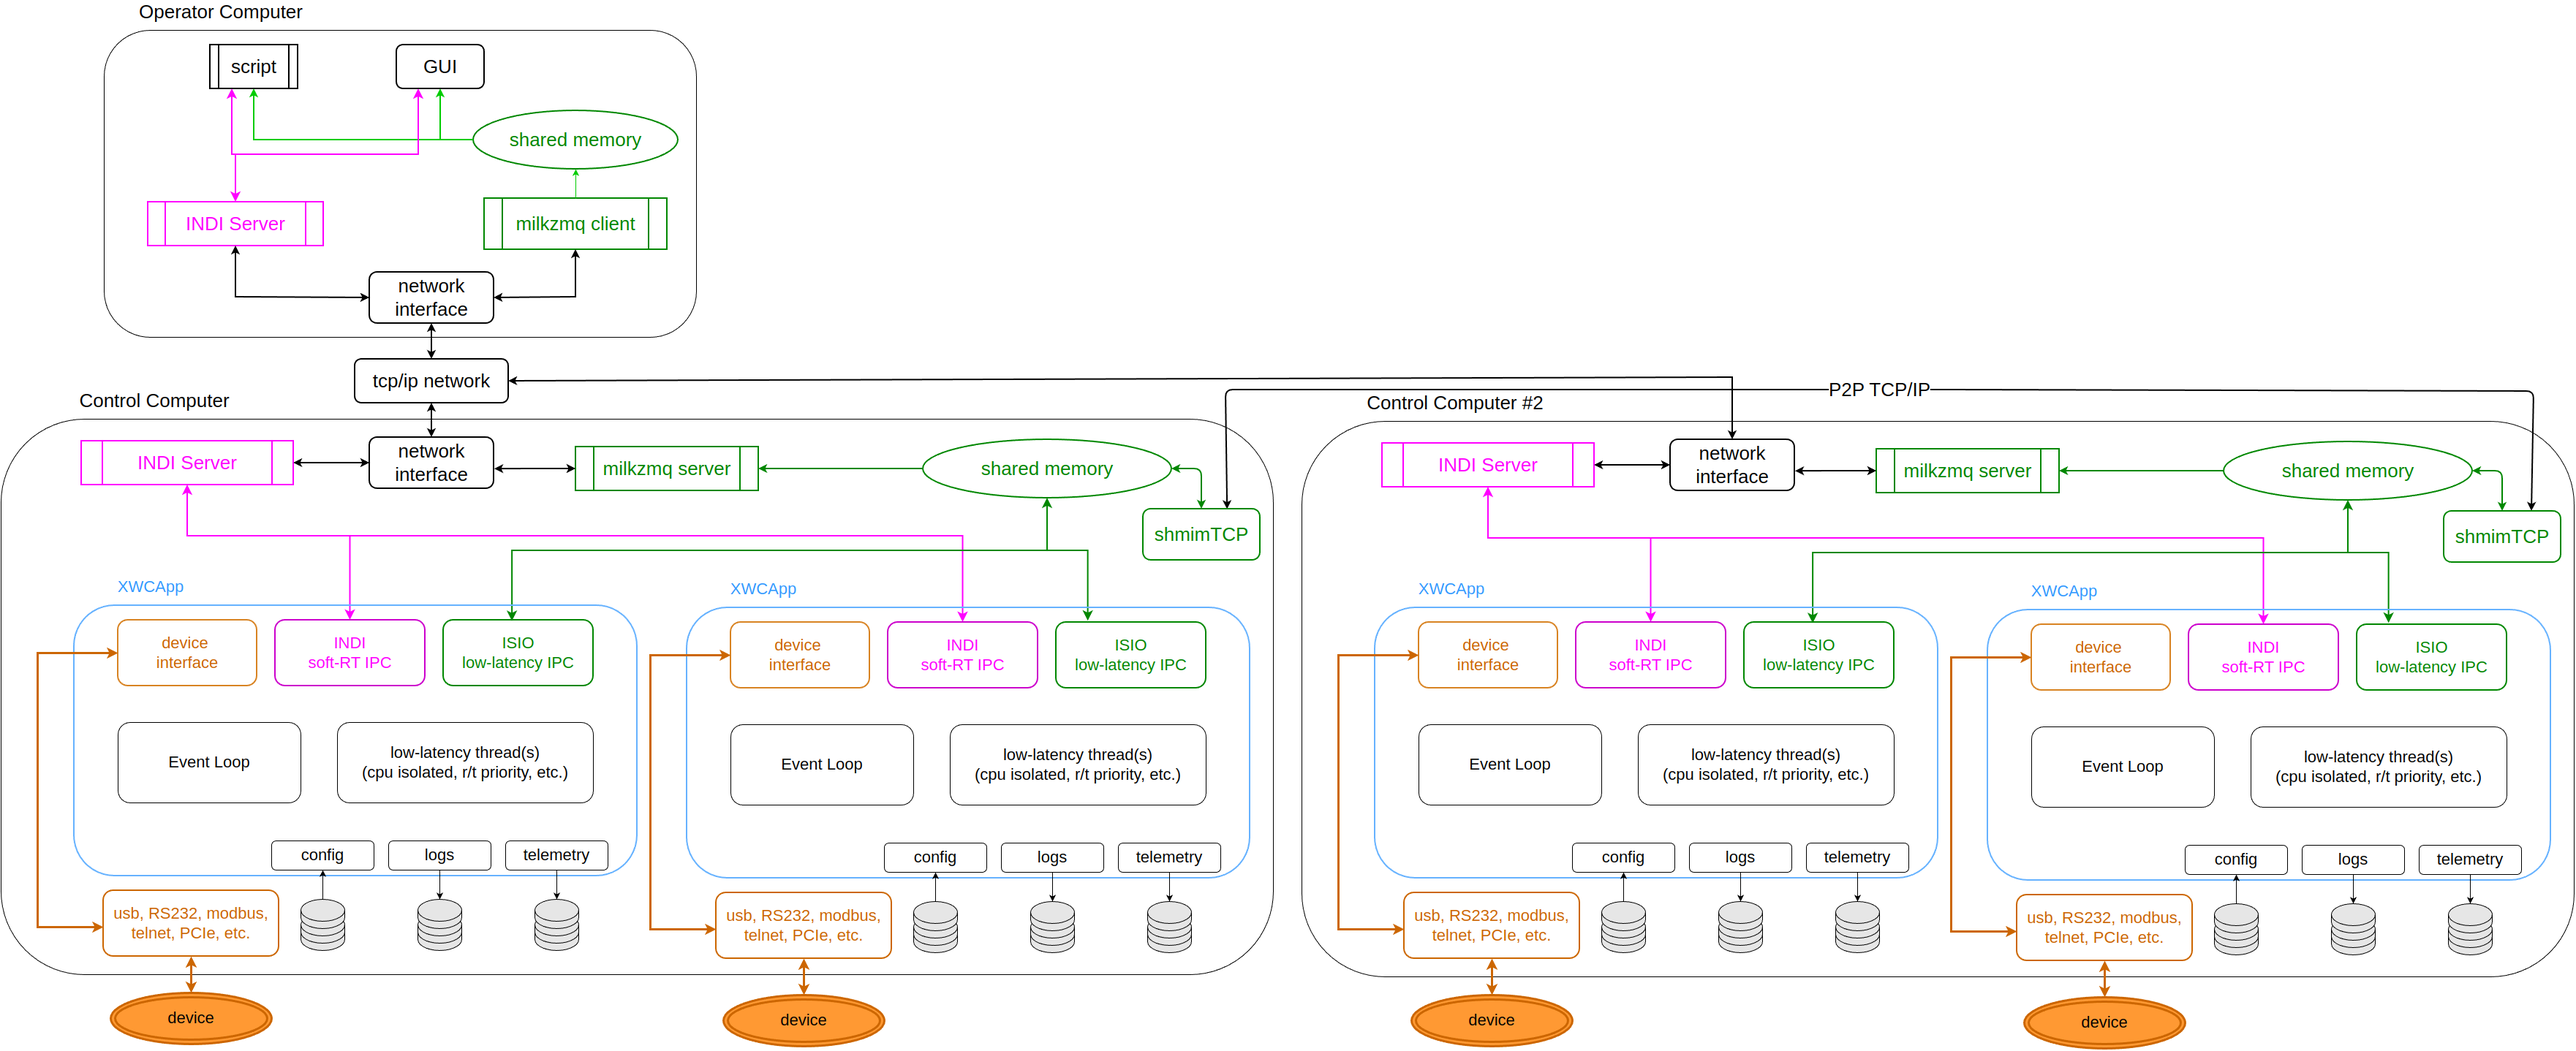
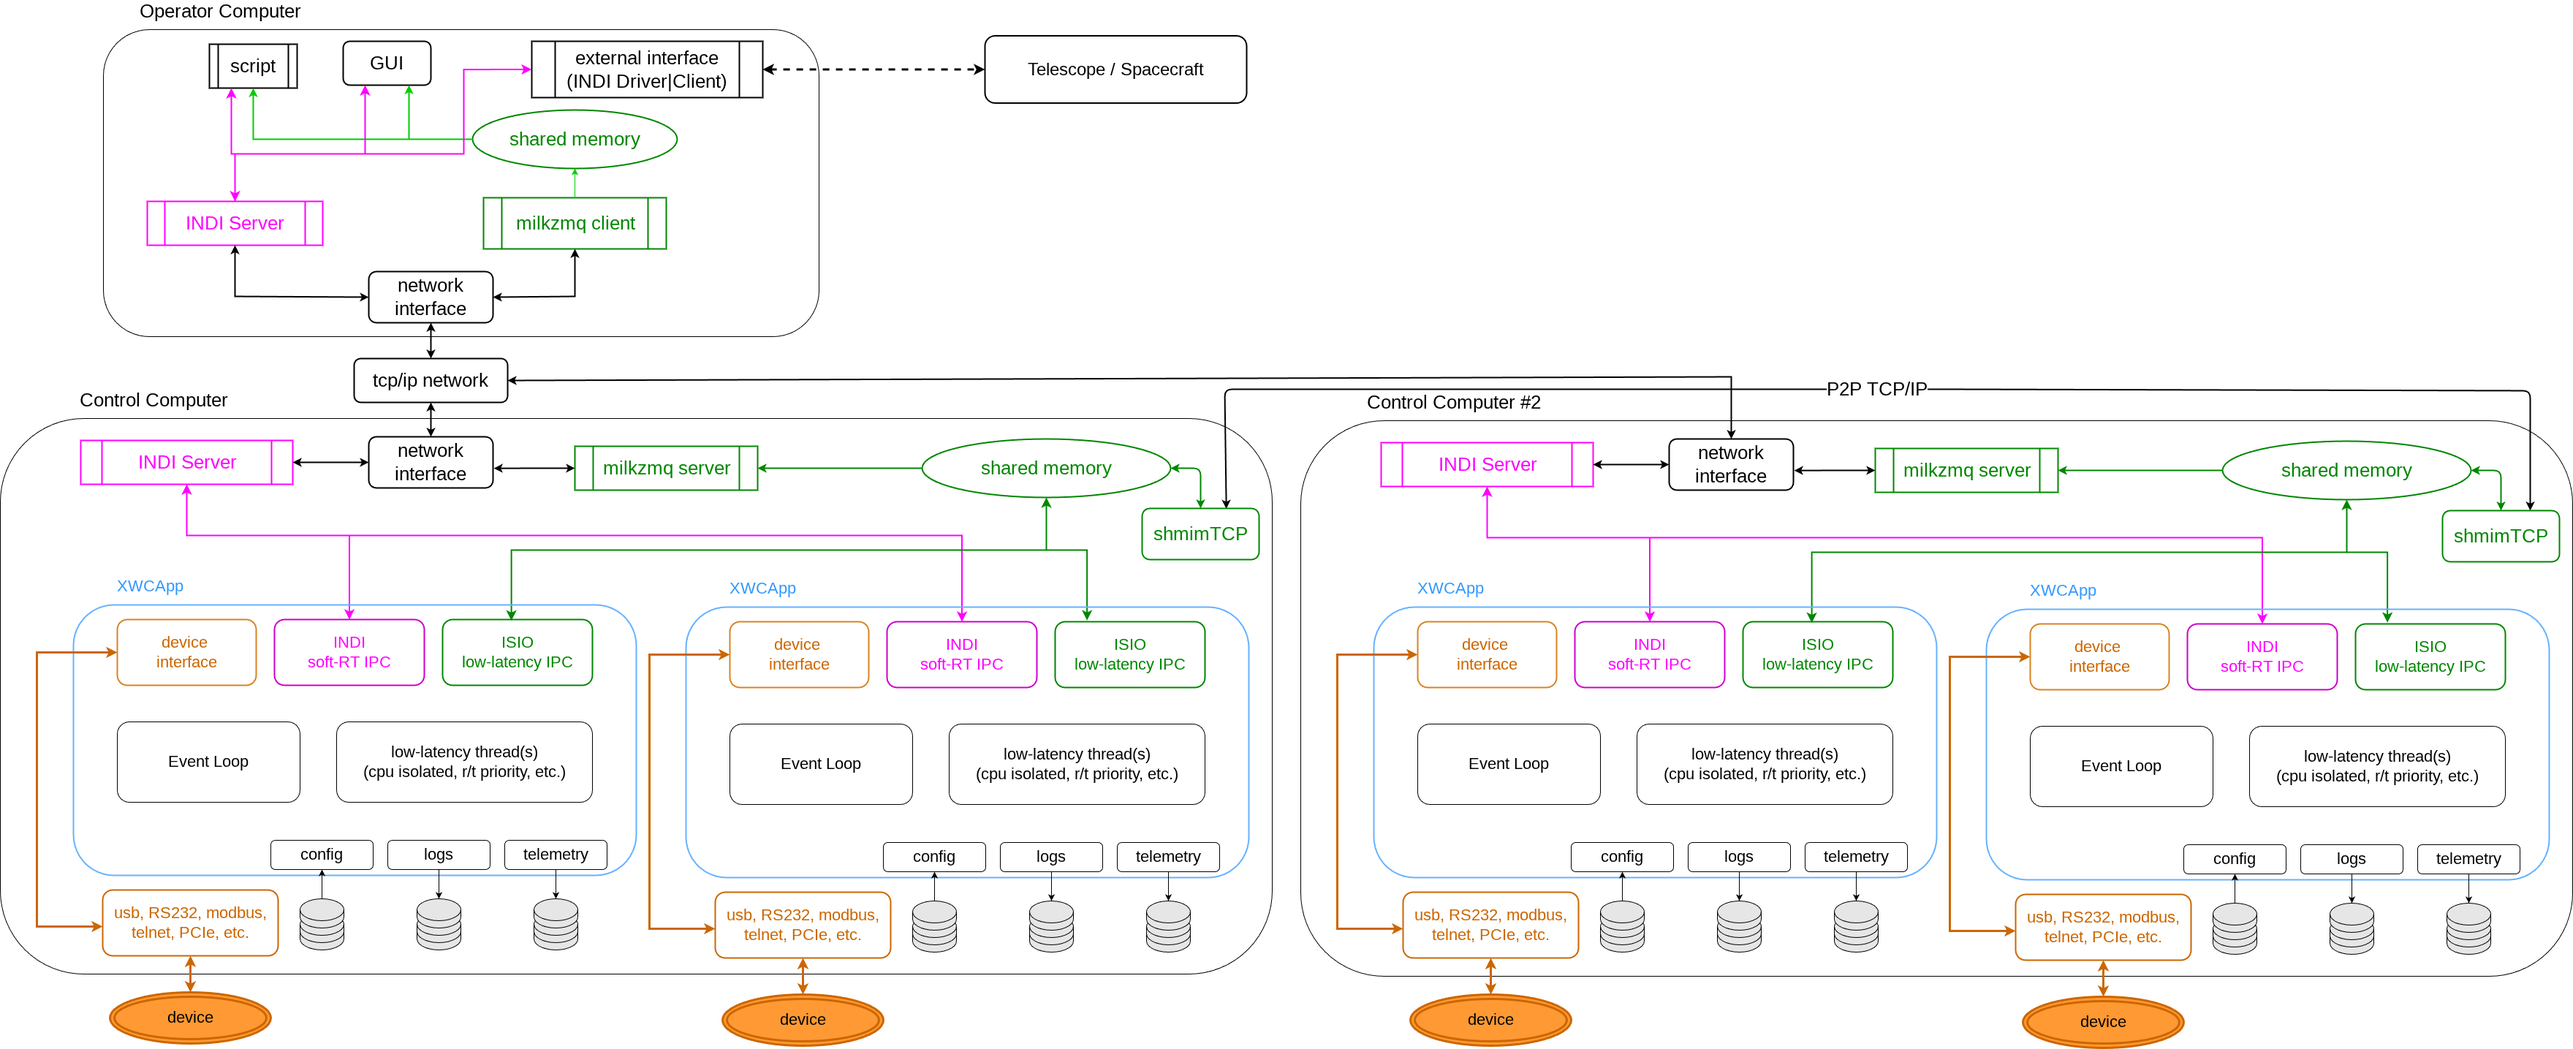
updated API doc formatting and included coverage

diff --git a/libMagAOX/app/MagAOXApp.hpp b/libMagAOX/app/MagAOXApp.hpp
@@ -83,9 +83,10 @@ namespace XWCTEST_NAMESPACE
  * Through various optional CRTP base classes, many different standard functionalities can be included.
  * The following figure illustrates the facilities provided by a typical app.
  *
- * \image html xwcapp.png "Block diagram of a typical XWCApp. Note that ImageStreamIO (ISIO) is not included by default,
- * but there are several ways to interface with 'image streams' provided in XWCTk.  Many different hardware device
- * interfaces are similarly provided."
+ * \image html xwcapp.png "Block diagram of a typical XWCApp."
+ *
+ * Note that ImageStreamIO (ISIO) is not included by default, but there are several ways to interface with 'image
+ * streams' provided in XWCTk.  Many different hardware device interfaces are similarly provided.
  *
  * The following figure illustrates the logic of the XWCApp finite state machine (FSM).
  *
@@ -95,8 +96,7 @@ namespace XWCTEST_NAMESPACE
  * Many XWCApps can be connected across many computers.  Inter-process communication can be conducted with
  * INDI or ISIO.
  *
- * \image html xwcapps_connections.png "Connecting XWCApps across several machines, controlling various hardware"
- * width=1200
+ * \image html xwcapps_connections.png "XWCApp network connections." width=1200
  *
  * XWCApps are designed to be part of control loops. In the following diagram a camera at the focal plane of a
  * coronagraph is used as the wavefront sensor.  An XWCApp reads out the images and publishes them to shared memory with
@@ -104,6 +104,13 @@ namespace XWCTEST_NAMESPACE
  * the deformable mirror controller sends the resultant command to the hardware device.
  *
  * \image html xwcapp_loops.png "XWCApps controlling hardware in a control loop." width=1200
+ */
+
+ /** \page page_app_docs Adding an Application
+ *
+ * \subpage page_module_appadd
+ *
+ *
  */
 
 /// The base-class for XWCTk applications.

diff --git a/libMagAOX/app/stateCodes.hpp b/libMagAOX/app/stateCodes.hpp
@@ -35,8 +35,8 @@ struct stateCodes
    typedef int16_t stateCodeT;
 
 
-   /// The numeric codes descrbing an application's state
-   /** \ingroup magaoxapp
+   /// The numeric codes describing an application's state
+   /**
      *
      */
    enum : stateCodeT { FAILURE=-20,       ///< The application has failed, should be used when m_shutdown is set for an error.

diff --git a/libMagAOX/app/dev/tests/stdMotionStage_test.cpp b/libMagAOX/app/dev/tests/stdMotionStage_test.cpp
@@ -2,7 +2,6 @@
  * \brief Catch2 tests for the stdMotionStage helper.
  * \author Jared R. Males (jaredmales@gmail.com)
  *
- * \ingroup testing
  */
 
 #include "../../../../tests/testXWC.hpp"

diff --git a/apps/template/readme.md b/apps/template/readme.md
@@ -1,3 +1,5 @@
+\ingroup magaoxapp
+
 Adding An application {#page_module_appadd}
 ==========
 
